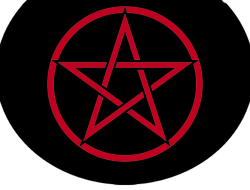
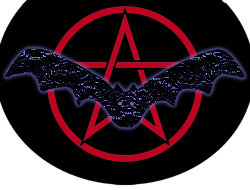
nerfed memento mori, new familiar art

Changed region(s): [[0.0, 0.2368, 1.0, 0.7105]]

diff --git a/src/main/java/witchmod/cards/familiar/RavenFamiliar.java b/src/main/java/witchmod/cards/familiar/RavenFamiliar.java
@@ -12,7 +12,7 @@ import witchmod.cards.AbstractWitchCard;
 public class RavenFamiliar extends AbstractWitchCard{
 	public static final String ID = "RavenFamiliar";
 	public static final	String NAME = "Raven";
-	public static final	String IMG = "cards/placeholder_skill.png";
+	public static final	String IMG = "cards/raven.png";
 	public static final	String DESCRIPTION = "Ethereal. NL Upgrade a card in your hand and reduce its cost by 1 for the rest of the combat. NL Exhaust.";
 
 	private static final CardRarity RARITY = CardRarity.SPECIAL;

diff --git a/src/main/java/witchmod/cards/familiar/BatFamiliar.java b/src/main/java/witchmod/cards/familiar/BatFamiliar.java
@@ -16,7 +16,7 @@ import witchmod.cards.AbstractWitchCard;
 public class BatFamiliar extends AbstractWitchCard{
 	public static final String ID = "BatFamiliar";
 	public static final	String NAME = "Bat";
-	public static final	String IMG = "cards/placeholder_skill.png";
+	public static final	String IMG = "cards/bat.png";
 	public static final	String DESCRIPTION = "Ethereal. NL Apply 1 Weak. Reduce Strength by !M! for 1 turn. NL Exhaust.";
 
 	private static final CardRarity RARITY = CardRarity.SPECIAL;

diff --git a/src/main/java/witchmod/cards/familiar/RatFamiliar.java b/src/main/java/witchmod/cards/familiar/RatFamiliar.java
@@ -14,7 +14,7 @@ import witchmod.powers.DecrepitPower;
 public class RatFamiliar extends AbstractWitchCard{
 	public static final String ID = "RatFamiliar";
 	public static final	String NAME = "Rat";
-	public static final	String IMG = "cards/placeholder_attack.png";
+	public static final	String IMG = "cards/rat.png";
 	public static final	String DESCRIPTION = "Ethereal. NL Apply !M! Poison and !M! Decrepit. NL Exhaust.";
 
 	private static final CardRarity RARITY = CardRarity.SPECIAL;

diff --git a/src/main/java/witchmod/cards/MementoMori.java b/src/main/java/witchmod/cards/MementoMori.java
@@ -25,7 +25,7 @@ public class MementoMori extends AbstractWitchCard{
 	private static final int POOL = 1;
 
 	private static final int COST = 1;
-	private static final int POWER = 12;
+	private static final int POWER = 11;
 	private static final int UPGRADE_BONUS = 5;
 
 	public MementoMori() {
